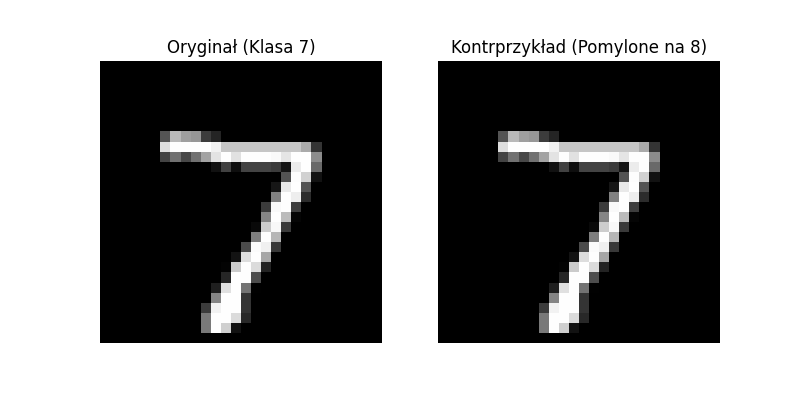
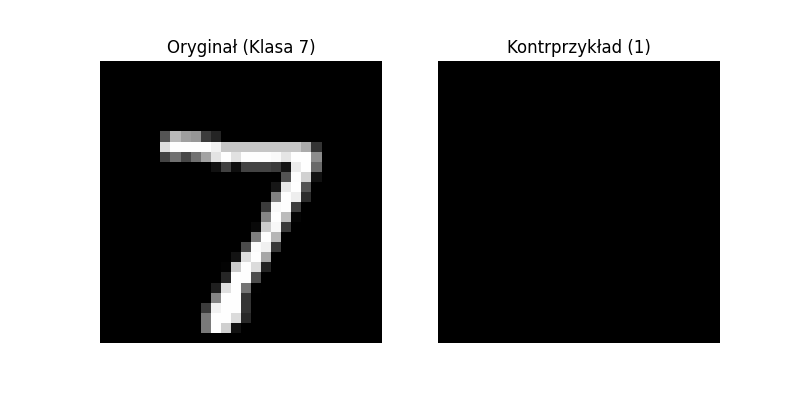
Lovely :3

Changed region(s): [[0.625, 0.33, 0.8438, 0.84], [0.5625, 0.09, 0.875, 0.15]]

diff --git a/xai_scripts/explain_mnist.py b/xai_scripts/explain_mnist.py
@@ -48,8 +48,13 @@ def perturb_from_bottom(model, image_tensor, original_class, save_path):
     height = img_clone.shape[-2] # Wysokość obrazka, dla MNIST = 28
     
     for row in range(height-1, -1, -1):
-        # Zasłaniamy dany wiersz (ustawiamy wartość pikseli na 0 - kolor tła)
-        img_clone[..., row, :] = 0.0
+        # Pobieramy oryginalne wartości wiersza, by móc je później wypisać
+        original_row_values = img_clone[..., row, :].clone().flatten()
+        
+        # Zasłaniamy dany wiersz (kolor tła dla znormalizowanego MNIST to ok. -0.4242)
+        img_clone[..., row, :] = -0.4242
+        
+        new_row_values = img_clone[..., row, :].flatten()
         
         # Predykcja na zmodyfikowanym obrazie
         output = model(img_clone)
@@ -57,16 +62,27 @@ def perturb_from_bottom(model, image_tensor, original_class, save_path):
         
         if pred_class != original_class:
             print(f"Predykcja uległa zmianie z klasy {original_class} na {pred_class} przy zasłonięciu do wiersza {row} (licząc od góry).")
+            print(f"--- Szczegóły zmiany dla wiersza {row} ---")
+            for i in range(len(original_row_values)):
+                print(f"Piksel {i:2d}: Przed: {original_row_values[i]:.4f}, Po: {new_row_values[i]:.4f}")
+            print("------------------------------------------")
             
             # Pokażmy wizualnie, w którym momencie model się pomylił
             fig, axes = plt.subplots(1, 2, figsize=(8, 4))
-            axes[0].imshow(image_tensor.squeeze().cpu().detach().numpy(), cmap='gray')
+            
+            # Cofamy normalizację (wartości wracają do skali 0.0 - 1.0)
+            orig_np = image_tensor.squeeze().cpu().detach().numpy() * 0.3081 + 0.1307
+            clone_np = img_clone.squeeze().cpu().detach().numpy() * 0.3081 + 0.1307
+            
+            # Wymuszamy na matplotlibie sztywne widełki od 0 do 1
+            axes[0].imshow(orig_np, cmap='gray', vmin=0.0, vmax=1.0)
             axes[0].set_title(f'Oryginał (Klasa {original_class})')
             axes[0].axis('off')
             
-            axes[1].imshow(img_clone.squeeze().cpu().detach().numpy(), cmap='gray')
-            axes[1].set_title(f'Kontrprzykład (Pomylone na {pred_class})')
+            axes[1].imshow(clone_np, cmap='gray', vmin=0.0, vmax=1.0)
+            axes[1].set_title(f'Kontrprzykład ({pred_class})')
             axes[1].axis('off')
+            
             os.makedirs(os.path.dirname(save_path), exist_ok=True)
             plt.savefig(save_path)
             print(f"Zapisano kontrprzykład do: {save_path}")
@@ -92,7 +108,10 @@ if __name__ == '__main__':
     cnn_path = os.path.join(os.path.dirname(__file__), '..', 'models', 'best_cnn_mnist.pt')
     model_cnn.load_state_dict(torch.load(cnn_path, map_location='cpu'))
     
-    tfm = transforms.Compose([transforms.ToTensor()])
+    tfm = transforms.Compose([
+        transforms.ToTensor(),
+        transforms.Normalize((0.1307,), (0.3081,))
+    ])
     mnist_test = torchvision.datasets.MNIST(root="data", train=False, transform=tfm, download=True)
     sample_img, label = mnist_test[0]
     image_tensor = sample_img.unsqueeze(0)
